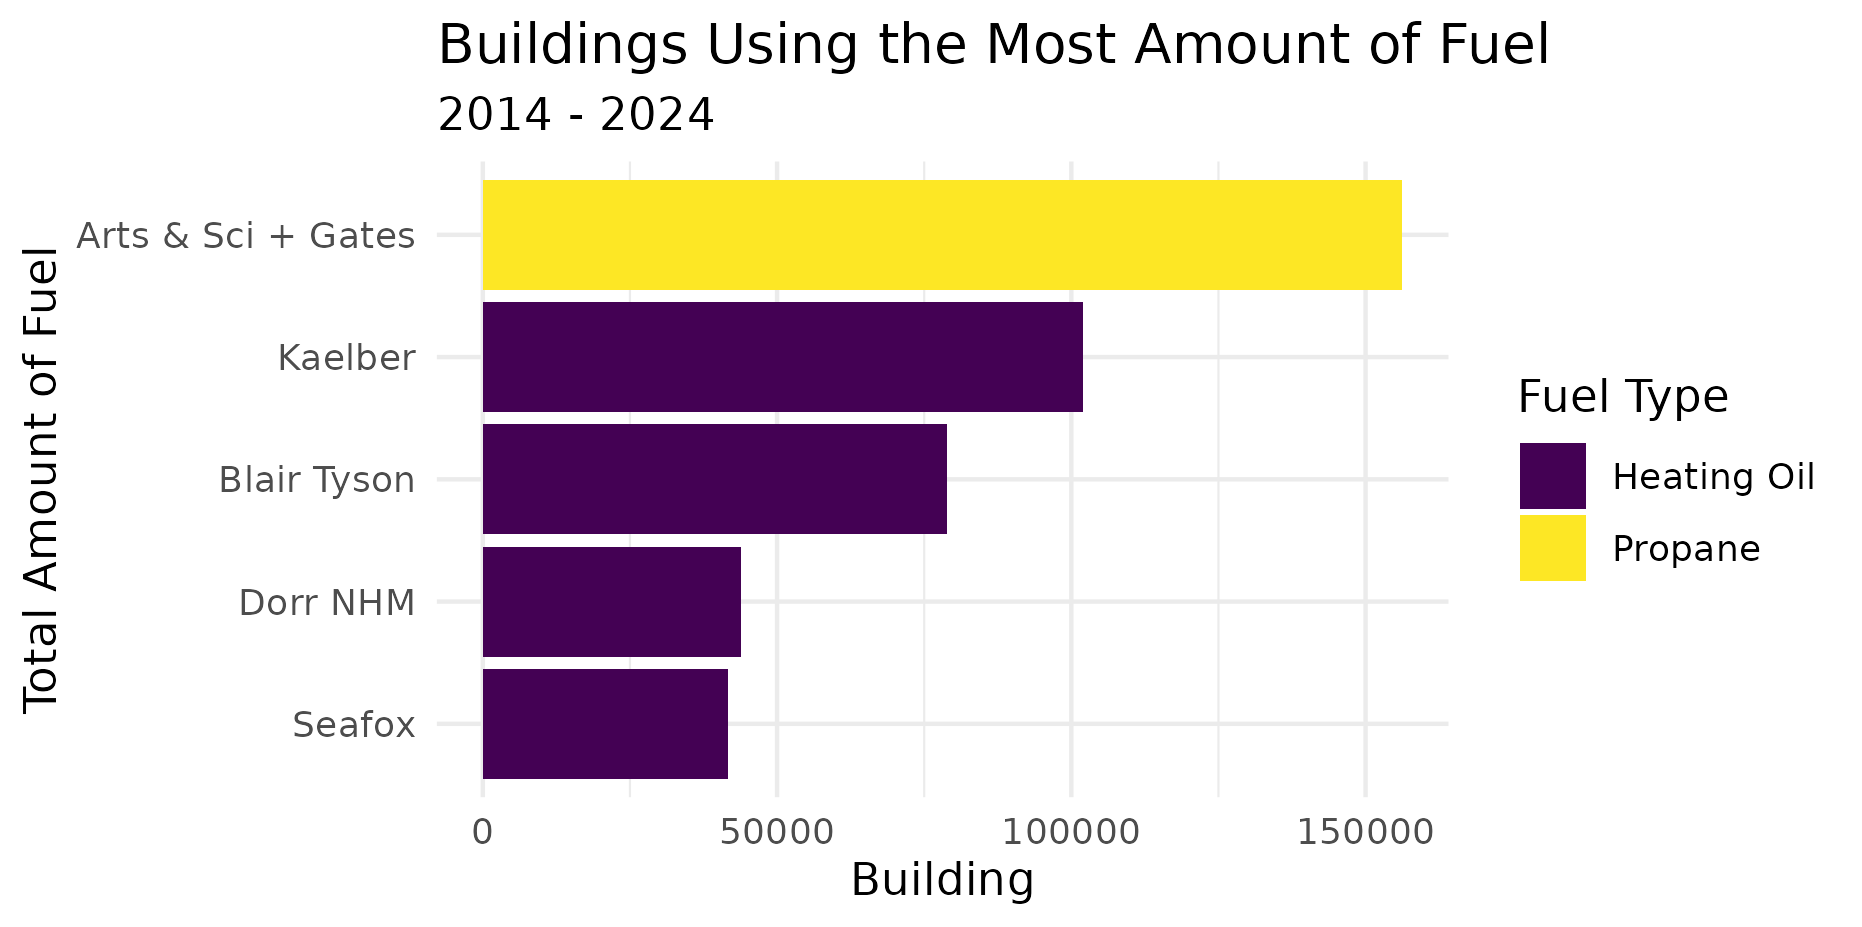
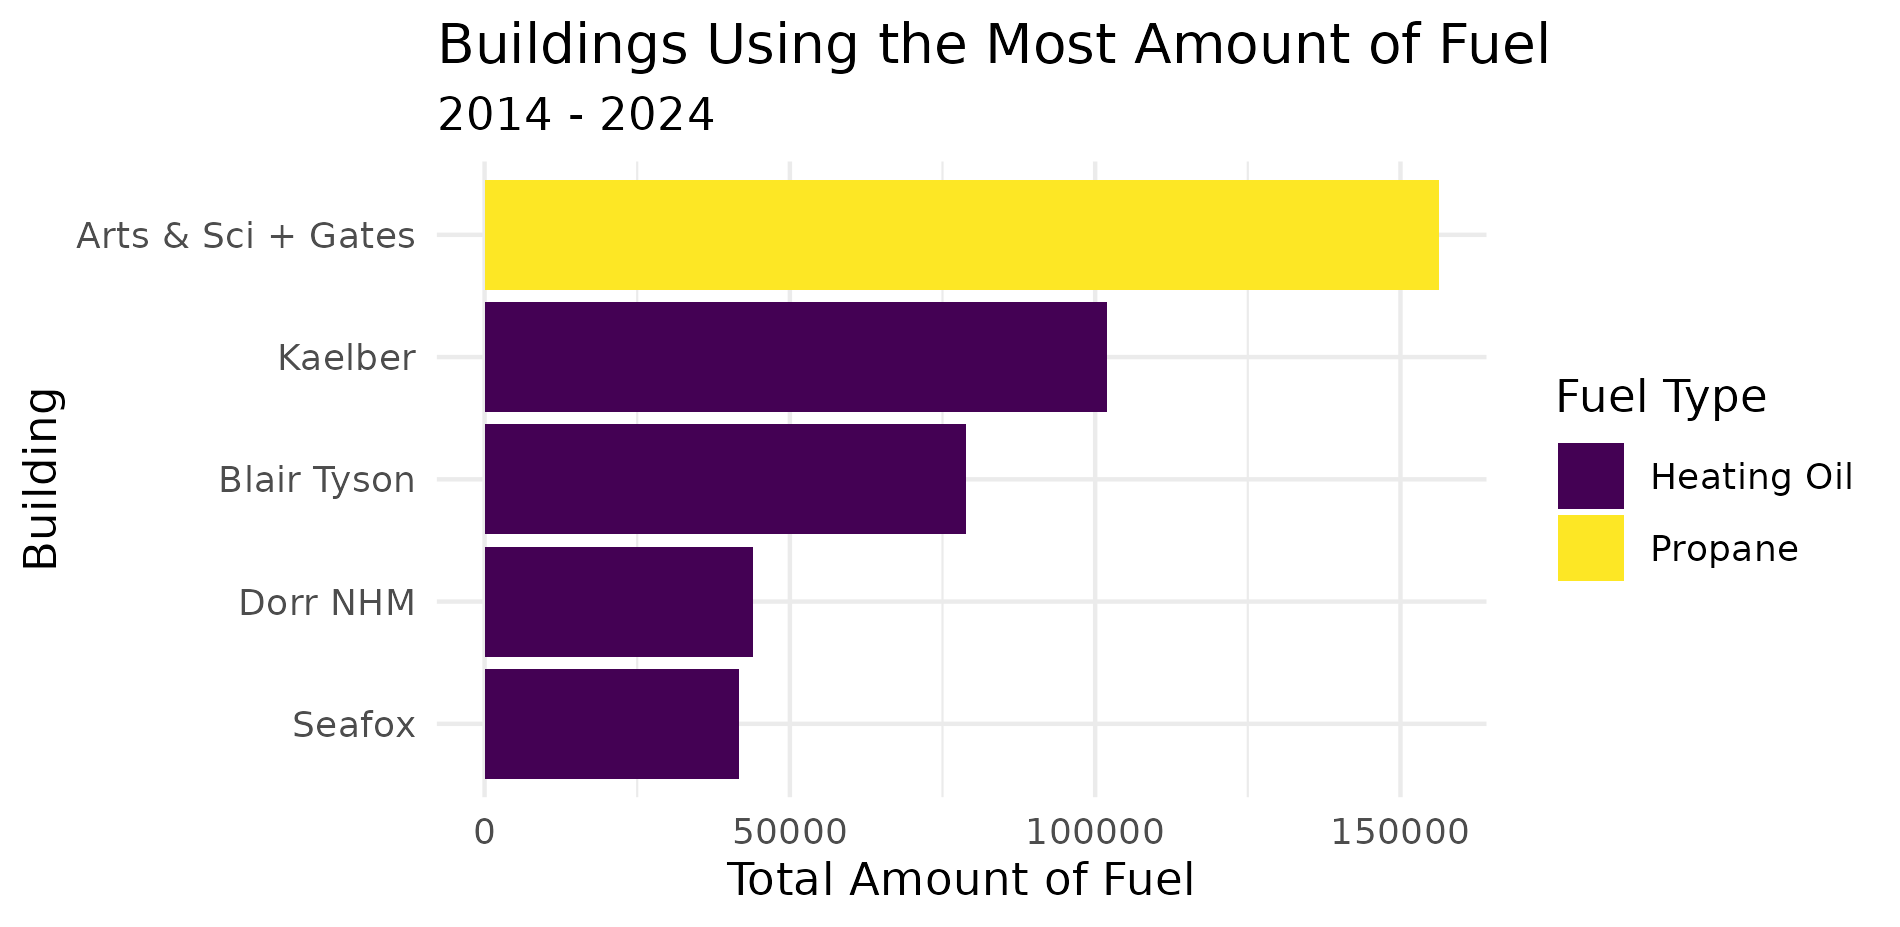
Fix axes labeles plot 2

diff --git a/memo/memo.md b/memo/memo.md
@@ -234,8 +234,8 @@ fuels |>
   guides(color = FALSE) +
   labs(title = "Buildings Using the Most Amount of Fuel",
        subtitle = "2014 - 2024",
-       x = "Building",
-       y = "Total Amount of Fuel",
+       y = "Building",
+       x = "Total Amount of Fuel",
        fill = "Fuel Type")
 ```
 
